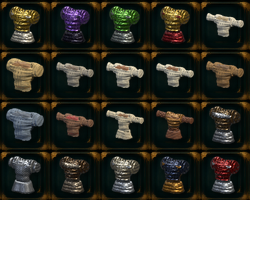
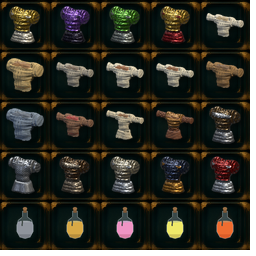
Paint the six missing attribute potions, and relabel the six renamed ones
The shelf had a bottle for each of the six base attributes and none for the
six that replaced them. It now has one per attribute, named after what it
raises.

The new bottles take ids and icons after the torso designs rather than
directly after the shelf: the torso set has held those since it was written,
and appending into it would renumber sixty-four items already handed out.
The icon strip stays one contiguous painted run, which is what the client
pins - 570 through 575, straight on from the torso tail.

Changed region(s): [[0.0, 0.7812, 1.0, 1.0]]

diff --git a/eloria-assets/tools/potion_icons.py b/eloria-assets/tools/potion_icons.py
@@ -135,23 +135,23 @@ SHELF = [
            "vial_tall", 0.85, (36, 190, 148), motif="spark"),
     # -- attribute tonics: one round-bellied flask per attribute, told apart
     #    by the colour of what fills it.
-    Potion("Potion of Physique", "Potions", 1, {"cooldown": "10"},
+    Potion("Potion of Might", "Potions", 1, {"cooldown": "10"},
            "A maroon tonic that briefly hardens muscle and frame.",
            "flask_round", 0.82, (152, 38, 46)),
-    Potion("Potion of Coordination", "Potions", 1, {"cooldown": "10"},
+    Potion("Potion of Dexterity", "Potions", 1, {"cooldown": "10"},
            "An orange tonic that briefly quickens hand and eye.",
            "flask_round", 0.82, (228, 138, 34)),
-    Potion("Potion of Reasoning", "Potions", 1, {"cooldown": "10"},
+    Potion("Potion of Rationality", "Potions", 1, {"cooldown": "10"},
            "A clear azure tonic that briefly sharpens deliberate thought.",
            "flask_round", 0.82, (74, 158, 228)),
-    Potion("Potion of Will", "Potions", 1, {"cooldown": "10"},
-           "A violet tonic that briefly steels resolve.",
+    Potion("Potion of Ethereality", "Potions", 1, {"cooldown": "10"},
+           "A violet tonic that briefly widens the channel spellwork runs through.",
            "flask_round", 0.82, (142, 72, 202)),
-    Potion("Potion of Vitality", "Potions", 1, {"cooldown": "10"},
-           "A rose tonic that briefly deepens the body's reserves.",
+    Potion("Potion of Toughness", "Potions", 1, {"cooldown": "10"},
+           "A rose tonic that briefly thickens skin against a blow.",
            "flask_round", 0.82, (228, 92, 132)),
-    Potion("Potion of Wildness", "Potions", 1, {"cooldown": "10"},
-           "A forest-green tonic that briefly wakes the older instincts.",
+    Potion("Potion of Perception", "Potions", 1, {"cooldown": "10"},
+           "A forest-green tonic that briefly wakes the older senses.",
            "flask_round", 0.82, (62, 158, 72)),
     # -- practice draughts: tall slim bottles, one hue per craft.
     Potion("Potion of Attack", "Potions", 1, {"cooldown": "10"},
@@ -211,11 +211,48 @@ SHELF = [
     Potion("Empty Vial", "Misc", 1, {},
            "Clean glass, ready for whatever is brewed next.",
            "vial_small", 0.72, None),
+    # -- the six attributes the shelf had no draught for. Appended rather
+    #    than filed beside the other tonics, because a row inserted anywhere
+    #    but the end renumbers every potion below it.
+    Potion("Potion of Matter", "Potions", 1, {"cooldown": "10"},
+           "A slate tonic that briefly thickens what a body is made of.",
+           "flask_round", 0.82, (128, 132, 140)),
+    Potion("Potion of Carry", "Potions", 1, {"cooldown": "10"},
+           "An amber tonic that briefly makes a heavy pack sit lighter.",
+           "flask_round", 0.82, (196, 150, 60)),
+    Potion("Potion of Charm", "Potions", 1, {"cooldown": "10"},
+           "A blush tonic that briefly makes a stranger inclined to listen.",
+           "flask_round", 0.82, (232, 132, 176)),
+    Potion("Potion of Reaction", "Potions", 1, {"cooldown": "10"},
+           "A pale citrine tonic that briefly shortens the gap between "
+           "seeing and moving.",
+           "flask_round", 0.82, (224, 210, 92)),
+    Potion("Potion of Magic Offense", "Potions", 1, {"cooldown": "10"},
+           "A tonic the colour of a struck spark, for spells that are "
+           "meant to land.",
+           "flask_round", 0.82, (236, 96, 40), glow=True),
+    Potion("Potion of Magic Defense", "Potions", 1, {"cooldown": "10"},
+           "A tonic the colour of deep water, for spells that are meant "
+           "to hold.",
+           "flask_round", 0.82, (48, 128, 176), glow=True),
 ]
 
+#: Where the shelf stopped when the torso designs took the ids and icons
+#: directly after it -- items 1682-1745, icons 506-569. A row past that point
+#: continues after that tail rather than into it, which is also why this
+#: number is frozen: it is a fact about what was already handed out.
+SHELF_BEFORE_TORSO = 32
+#: The first id and icon after the torso designs' tail.
+CONTINUED_ITEM_ID = 1746
+CONTINUED_IMAGE_ID = 570
+
 for index, potion in enumerate(SHELF):
-    potion.item_id = FIRST_ITEM_ID + index
-    potion.image_id = FIRST_IMAGE_ID + index
+    if index < SHELF_BEFORE_TORSO:
+        potion.item_id = FIRST_ITEM_ID + index
+        potion.image_id = FIRST_IMAGE_ID + index
+    else:
+        potion.item_id = CONTINUED_ITEM_ID + index - SHELF_BEFORE_TORSO
+        potion.image_id = CONTINUED_IMAGE_ID + index - SHELF_BEFORE_TORSO
 
 
 def roster() -> list[Potion]:
